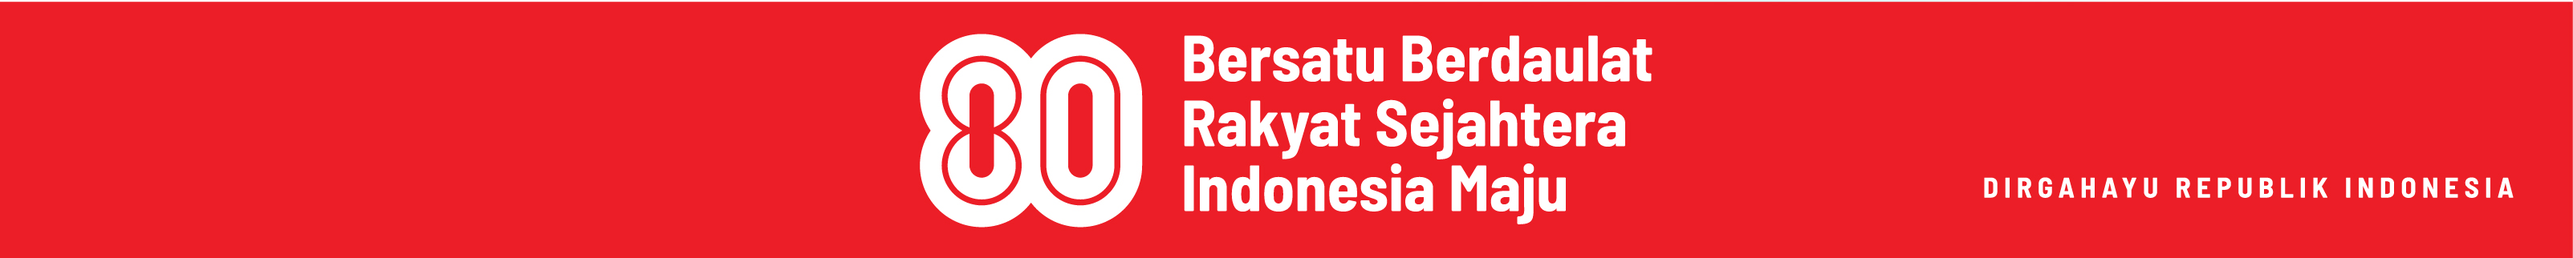
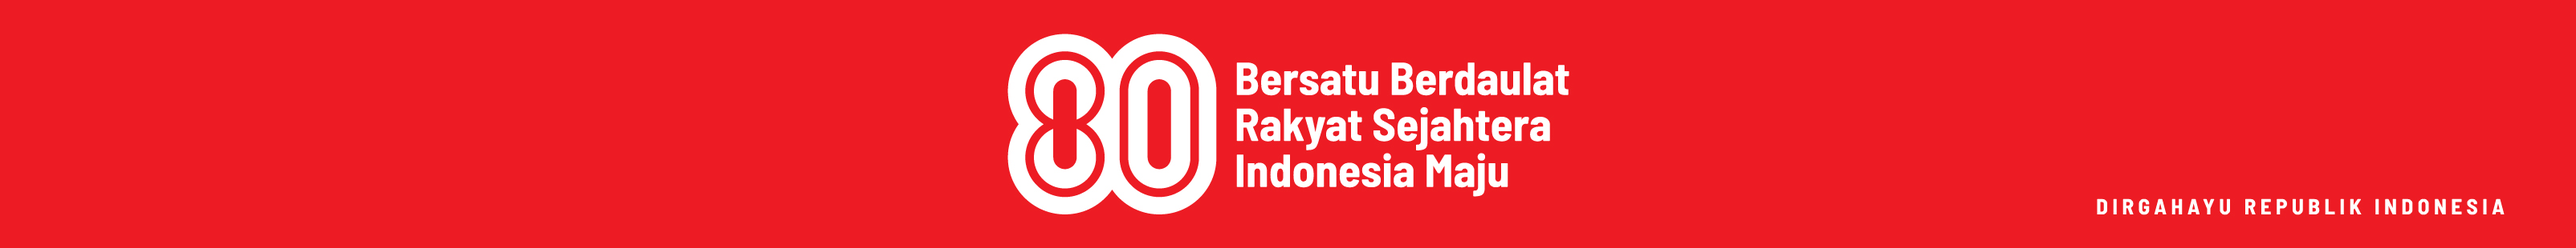
update

Changed region(s): [[0.3431, 0.1161, 0.655, 0.9], [0.0, 0.0, 1.0, 1.0]]

diff --git a/index.html b/index.html
@@ -348,7 +348,7 @@
        
        <!-- Container Iklan Star -->
        <div class="container-iklan">
-        <img src="img/iklan/bg-iklan.jpg" alt="">
+        <img src="img/iklan/hut-ri80.jpg" alt="">
        </div>
        <!-- Container Iklan End -->
 
